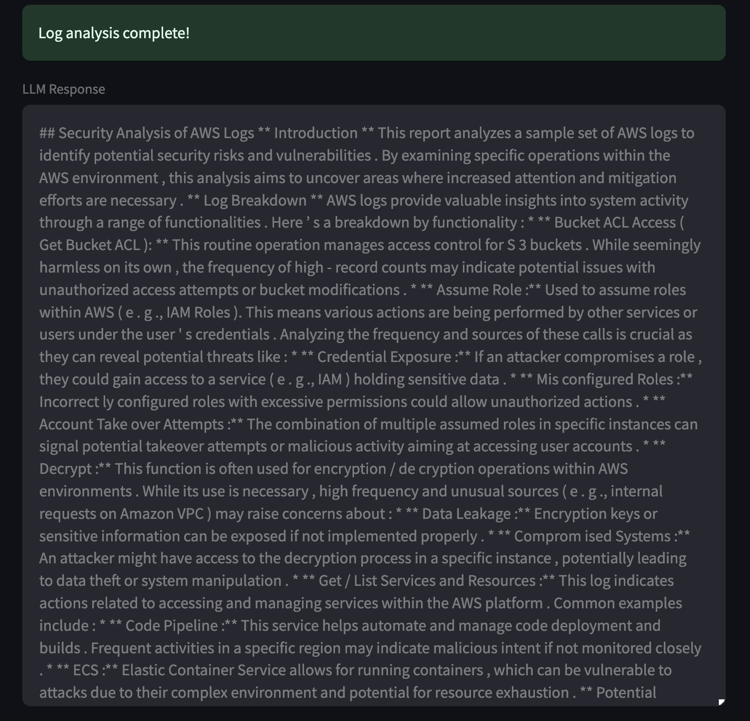
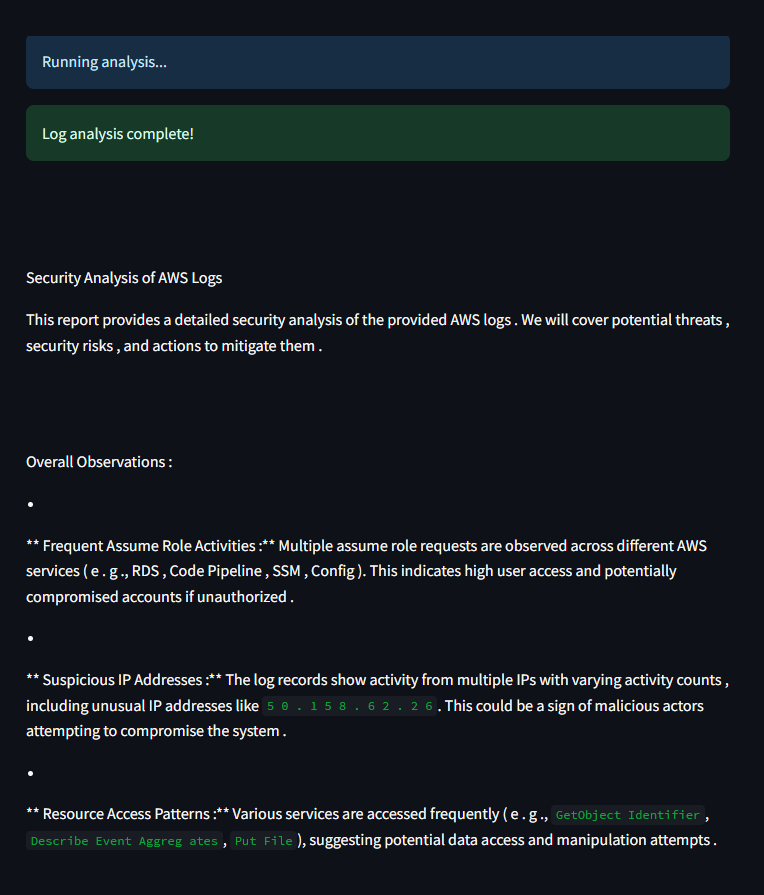
Updates to formatting (#7)
* Fixes to analysis output (#4)

* LangChain additions

* Fix for analysis output

* Updates to formatting (#6)

* LangChain additions

* Fix for analysis output

* Cleanup of function structures

* Picture update

diff --git a/app/log_analysis_buddy.py b/app/log_analysis_buddy.py
@@ -10,7 +10,7 @@ from llm_provider import get_default_provider
 logging.basicConfig(level=logging.INFO, format='%(asctime)s - %(levelname)s - %(message)s')
 
 def read_csv_log(file_path):
-    """Read a CSV log file and return its contents as a string."""
+    """Function to read CSV log files and return their contents as a string."""
     try:
         with open(file_path, 'r', encoding='utf-8') as csvfile:
             reader = csv.reader(csvfile)
@@ -21,7 +21,7 @@ def read_csv_log(file_path):
         return ""
 
 def read_json_log(file_path):
-    """Read a JSON log file and return its pretty-printed contents as a string."""
+    """Function to read JSON log files and return their contents as a string."""
     try:
         with open(file_path, 'r', encoding='utf-8') as f:
             data = json.load(f)
@@ -31,7 +31,7 @@ def read_json_log(file_path):
         return ""
 
 def read_plain_log(file_path):
-    """Read a plain text log file and return its contents."""
+    """Function to read plain text log files and return their contents as a string."""
     try:
         with open(file_path, 'r', encoding='utf-8') as f:
             return f.read()
@@ -40,7 +40,7 @@ def read_plain_log(file_path):
         return ""
 
 def parse_log_file(file_path):
-    """Determine the log file type by its extension and return its contents as a string."""
+    """Function to parse log files based on their extension."""
     ext = os.path.splitext(file_path)[1].lower()
     if ext == ".csv":
         return read_csv_log(file_path)
@@ -50,6 +50,7 @@ def parse_log_file(file_path):
         return read_plain_log(file_path)
 
 def analyze_logs(provider_choice, api_key, log_file_path, additional_context, model_string):
+    """Function to analyze log files using the specified LLM provider."""
     logging.info("Starting log analysis...")
     if not os.path.exists(log_file_path):
         logging.error("Log file not found.")
@@ -85,5 +86,5 @@ def analyze_logs(provider_choice, api_key, log_file_path, additional_context, mo
         return None
 
 if __name__ == '__main__':
-    # CLI mode omitted for brevity.
+    # CLI mode disabled for enhancement of the full application
     pass

diff --git a/app/response_cleaner.py b/app/response_cleaner.py
@@ -7,33 +7,24 @@ from llm_provider import get_default_provider
 from langchain.prompts import PromptTemplate
 
 def clean_response(text):
-    """
-    Clean the raw LLM response by collapsing extra spaces and normalizing header spacing.
-    """
+    """Function to clean up the response text from the LLM."""
+
     cleaned_lines = []
     for line in text.splitlines():
         # Collapse multiple spaces into one per line
         cleaned_line = " ".join(line.split())
         cleaned_lines.append(cleaned_line)
     cleaned_text = "\n".join(cleaned_lines)
-
-    # Ensure Markdown headers have exactly one space after the '#' symbols
+    # Need to fix
     cleaned_text = re.sub(r'^(#+)\s*', r'\1 ', cleaned_text, flags=re.MULTILINE)
     return cleaned_text
 
 def refactor_response(provider_choice, api_key, model_string, cleaned_text):
-    """
-    Use LangChain's PromptTemplate to instruct the LLM to reformat the cleaned text into
-    a well-structured Markdown report. The output must include headings, bullet points,
-    and properly organized paragraphs.
-    """
-    # Determine which provider to use
+    """Function to refactor the cleaned response into valid Markdown using the LangChain LLM."""
     if provider_choice == "OpenAI":
         provider = get_default_provider("openai", api_key=api_key)
     else:
         provider = get_default_provider("ollama")
-
-    # Create a LangChain PromptTemplate for reformatting
     prompt_template = PromptTemplate(
         input_variables=["text"],
         template=(
@@ -46,8 +37,6 @@ def refactor_response(provider_choice, api_key, model_string, cleaned_text):
             "Text to refactor:\n{text}"
         )
     )
-
-    # Format the final prompt
     prompt_text = prompt_template.format(text=cleaned_text)
     logging.info("Refactoring response using LangChain prompt template...")
 

diff --git a/app/lab_app.py b/app/lab_app.py
@@ -39,7 +39,8 @@ else:
         output = list_local_models()
         st.text_area("Local Models", value=str(output), height=200)
 
-    pull_model_choice = st.selectbox("Select a model to pull", ["llama3.2", "deepseek-r1", "gemma2:2b"])
+    pull_model_choice = st.selectbox("Select a model to pull", ["gemma2:2b", "llama3.2", "deepseek-r1"])
+
     if st.button("Pull Selected Model"):
         pull_output = pull_model(pull_model_choice)
         st.text_area("Pull Output", value=pull_output, height=200)
@@ -71,7 +72,7 @@ additional_context = st.text_area("Additional Context (optional):", "Enter any e
 
 # Model selection
 if provider_choice.lower() == "ollama":
-    available_models = ["DeepSeek-R1", "llama3.2", "gemma2:2b"]
+    available_models = ["gemma2:2b", "DeepSeek-R1", "llama3.2"]
 else:
     available_models = ["gpt-3.5-turbo", "gpt-4"]
 

diff --git a/app/llm_provider.py b/app/llm_provider.py
@@ -40,17 +40,13 @@ class OllamaProvider(BaseLLMProvider):
                     try:
                         data = json.loads(line)
                         part = data.get("response", "")
-                        # Keep the exact text (including newlines inside 'part' if any)
+
                         fragments.append(part)
                     except Exception as e:
                         logging.error(f"Error parsing line: {line} | {e}")
 
             # JOIN WITH NEWLINES to preserve headings/bullets from the LLM
             final_response = "\n".join(fragments)
-
-            # OPTIONAL: If you want minimal post-processing, you could still do a small cleanup
-            # but do NOT re-sub everything to single spaces:
-            # final_response = final_response.replace('\r', '')
 
             return final_response.strip()
 

diff --git a/app/ollama_utils.py b/app/ollama_utils.py
@@ -38,7 +38,7 @@ def is_port_in_use(port, host="127.0.0.1"):
 
 def start_ollama_service():
     """Function to start the Ollama service in a background thread."""
-    # Check if port 11434 is already in use.
+    # Note: Port check to see if Ollama is running.
     if is_port_in_use(11434):
         return "Ollama service is already running."
 
